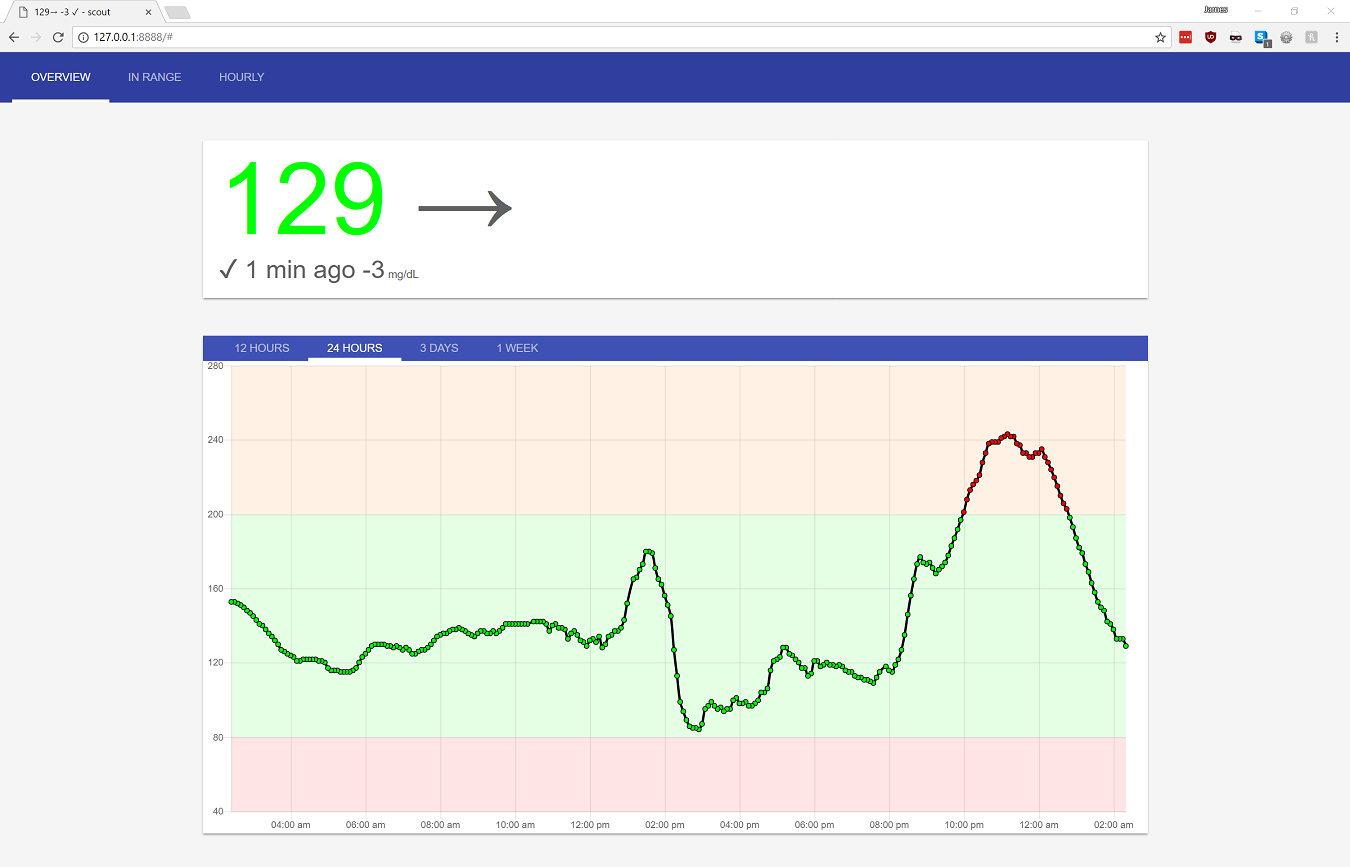
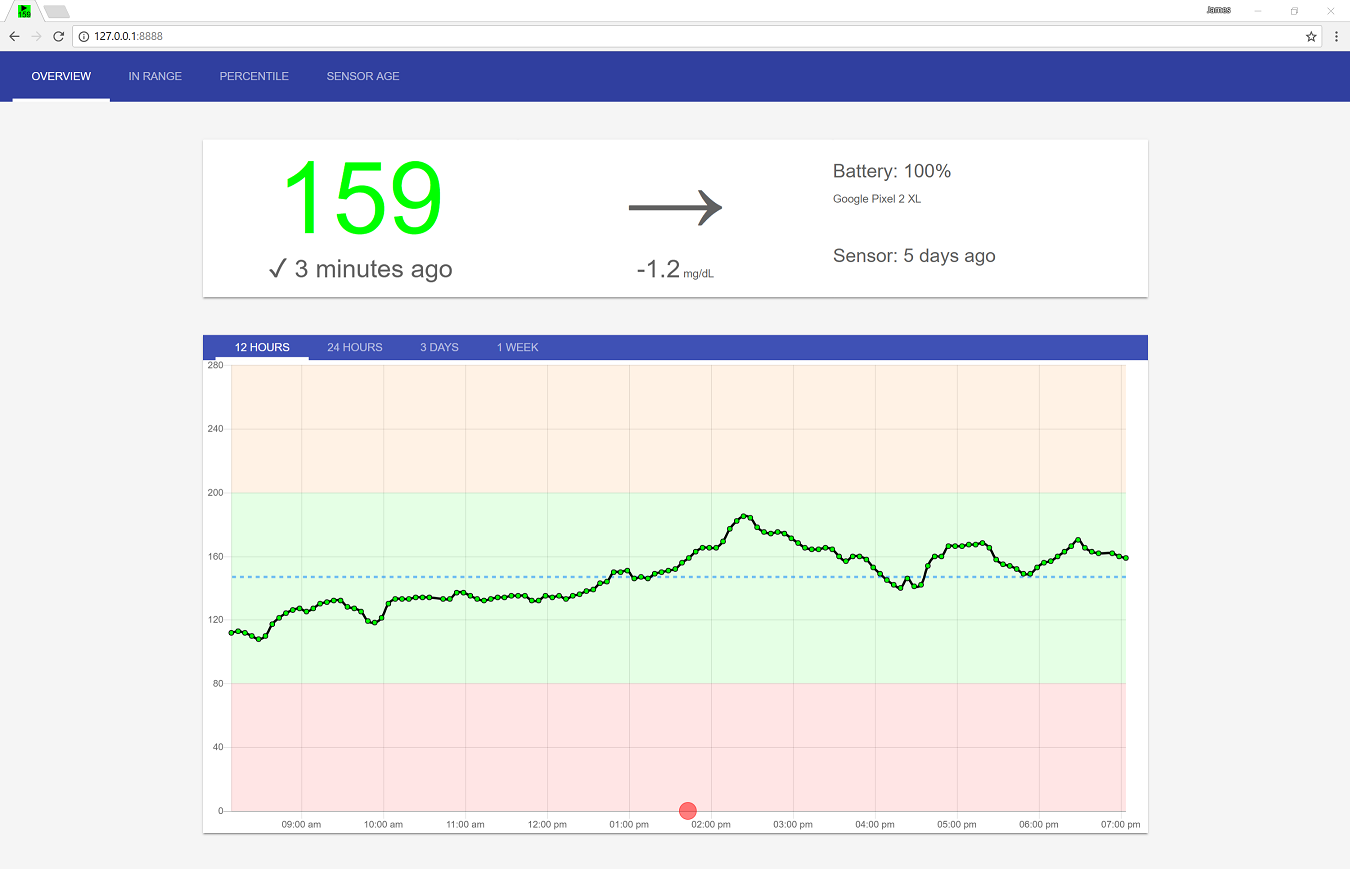
readme/screenshot update

diff --git a/README.md b/README.md
@@ -3,6 +3,15 @@ scout
 
 Scout (name subject to change) is a UI shim for viewing continuous glucose monitor data from [Nightscout](https://github.com/nightscout/cgm-remote-monitor), in a simplified and prettier form. It may grow to incorporate a backend component, but it currently only depends on cross-origin request access to the domain on which Nightscout is running.
 
+Currently supported functionality includes:
+* an overview screen, which displays the current BG reading and trend along with uploader battery and sensor age
+* 12 hour, 24 hour, 3 day, and 1 week-long BG graphs on the main screen along with insulin doses
+* in-range charts across one or multiple days
+* the percentile BG readings across 15-minute periods over a date range
+* a chart showing when the sensor has been replaced and for how long each sensor has ran, along with the average sensor age
+* notifications for high and low BG readings
+* custom generated favicons showing the current BG reading and trend (allows for unobtrusive use as pinned tab)
+
 ![screenshot-1](screenshot-1.png)
 
 ![screenshot-2](screenshot-2.png)
